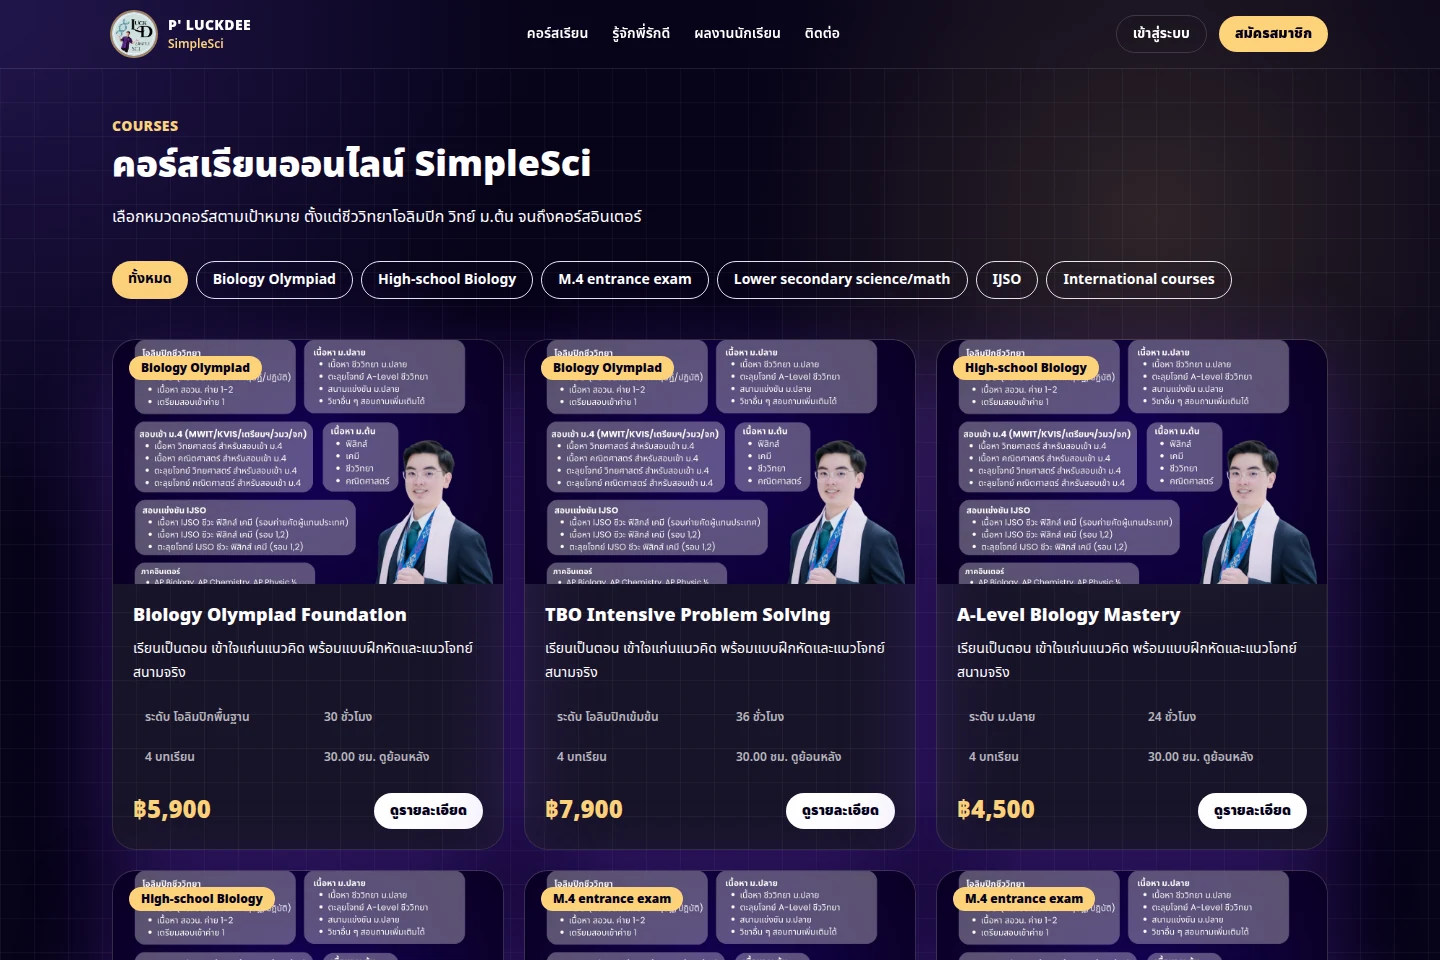
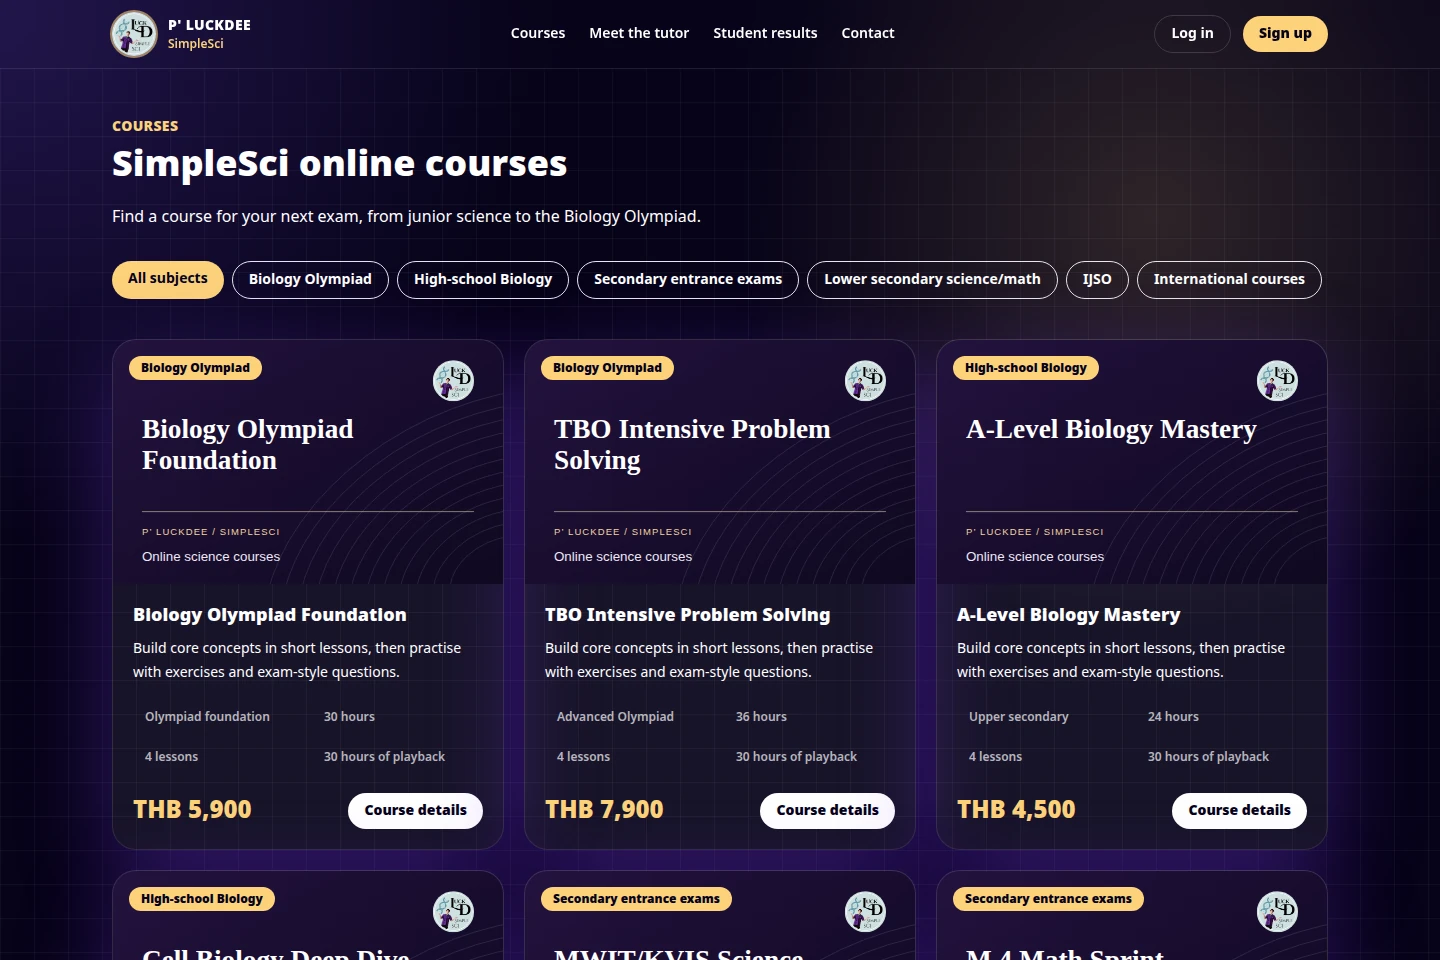
Show the paper cover and explain the projects in plain English

diff --git a/content/journeys.js b/content/journeys.js
@@ -1,66 +1,52 @@
 export const journeys = {
   "kvis-sc": {
-    role: "I led the IT team and built room and sports-field bookings, equipment lending, and the council feed.",
+    role: "I led the student IT team and replaced a shared booking spreadsheet with a live calendar.",
     frames: [
-      { image: "kvis-bookings.webp", label: "Reserve a room", alt: "Weekly room timetable with available reservation slots", caption: "Check a room and reserve a slot.", wide: true },
+      { image: "kvis-bookings.webp", label: "Reserve a room", alt: "Weekly room timetable with available reservation slots", caption: "See which rooms are free, then book a time.", wide: true },
     ],
-    flow: {
-      caption: "What changed in the booking system",
-      steps: [["Shared spreadsheet", "Conflicting bookings"], ["Live timetable", "Rooms and sports fields"], ["Student services", "Equipment, news, feedback"]],
-    },
   },
   "kampung-quest": {
-    role: "I carried accessibility preferences into the quest chat and improved the slower chat and activity requests.",
+    role: "I made the activity chat remember access needs, such as avoiding stairs, and sped up slow requests.",
     frames: [
-      { image: "kampung-accessibility.webp", label: "Set preferences", alt: "Accessibility preferences on the mobile onboarding screen", caption: "Set mobility and access preferences.", portrait: true },
-      { image: "kampung-assistant.webp", label: "Find an activity", alt: "Mobile conversation with the guided activity assistant", caption: "Find an activity with the assistant.", portrait: true },
-      { image: "kampung-coordination.webp", label: "Make a group plan", alt: "Group conversation and the activity card it produces", caption: "Turn the conversation into a group plan.", wide: true },
+      { image: "kampung-accessibility.webp", label: "Set preferences", alt: "Accessibility preferences on the mobile onboarding screen", caption: "Tell the assistant how far you can walk and whether stairs are a problem.", portrait: true },
+      { image: "kampung-assistant.webp", label: "Find an activity", alt: "Mobile conversation with the guided activity assistant", caption: "Find an activity that fits those needs.", portrait: true },
+      { image: "kampung-coordination.webp", label: "Make a group plan", alt: "Group conversation and the activity card it produces", caption: "Agree on a plan with the group.", wide: true },
     ],
   },
   tamestorage: {
-    role: "I set up the NAS on a repurposed Lenovo, integrated the file and note workflows, and added two-way calendar sync.",
+    role: "I set up the storage and backups, made my iPad notes searchable, and synced calendar changes across devices.",
     frames: [
       { image: "tamestorage-files.webp", label: "My Files", alt: "Tamestorage file manager displaying a sample Studio folder", caption: "My Files with a sample project folder.", wide: true },
-      { image: "storage-network.svg", label: "NAS topology", alt: "Network diagram for the primary NAS and backup disk", caption: "The home storage network.", wide: true },
+      { image: "storage-network.svg", label: "Storage and backups", alt: "Network diagram for the primary NAS and backup disk", caption: "One drive holds my files. A second drive stores a backup.", wide: true },
       { image: "nas-notebook.webp", label: "Network notebook", alt: "Thanakrit’s handwritten sketch connecting five home server services", caption: "The original network notebook sketch.", wide: true },
     ],
-    flow: {
-      caption: "From handwritten notes to searchable pages",
-      steps: [["Export", "Goodnotes over WebDAV"], ["Link the PDF", "NAS → Obsidian"], ["Extract text", "Native text or cached OCR"], ["Find the page", "Search with page references"]],
-    },
   },
   mgans: {
-    role: "Pasatorn Soikiri and I share first authorship. I worked on multi-generator anomaly detection for synthetic speech.",
+    role: "Pasatorn Soikiri and I share first authorship. I worked on the model that spots synthetic speech.",
     frames: [
+      { image: "mgans.svg", label: "Results", alt: "eD-AnoGAN scores of 0.9211 ROC AUC on WaveFake and 0.8428 on ASVspoof2019 LA", caption: "Closer to 1 is better. The score drops on a different set of recordings.", wide: true },
       { image: "mgans-paper-architecture.webp", label: "Model architectures", alt: "The paper’s published architectures for eD-AnoGAN and RES-MGANomaly", caption: "Model architectures from Figure 1. © 2025 IEEE.", wide: true },
-      { image: "mgans-paper-reconstructions.webp", label: "Reconstructions", alt: "Input and reconstructed speech spectrograms for four model variants", caption: "Spectrogram reconstructions from Figure 3. © 2025 IEEE.", wide: true },
+      { image: "mgans-paper-reconstructions.webp", label: "Original and rebuilt audio", alt: "Input and reconstructed speech spectrograms for four model variants", caption: "Original and rebuilt sound patterns from Figure 3. © 2025 IEEE.", wide: true },
       { image: "mgans-talk.webp", label: "Presenting the work", alt: "ICITEE presentation with the model architecture on screen", caption: "Presenting the architecture at ICITEE 2025." },
       { image: "mgans-venue.webp", label: "ICITEE 2025", alt: "Thanakrit beside the ICITEE conference backdrop", caption: "ICITEE 2025." },
     ],
   },
   sleeppilot: {
-    role: "I built the FAQ assistant, added conversation history, and refined the embedding model and retrieval scoring.",
+    role: "I built the search that finds the right help article and added follow-up questions that carry on the conversation.",
     frames: [
-      { image: "sleeppilot-dialog.webp", label: "An answer with sources", alt: "SleepPilot Coach answering a question about wearables and showing its FAQ sources", caption: "A wearable-device question, answered from the indexed FAQ.", portrait: true, wide: true },
+      { image: "sleeppilot-dialog.webp", label: "An answer with sources", alt: "SleepPilot Coach answering a question about wearables and showing its FAQ sources", caption: "Asked if a watch is required, the assistant answers and shows the help article it used.", portrait: true, wide: true },
     ],
-    flow: {
-      caption: "How SleepPilot answers a question",
-      steps: [["Ask", "Include recent context"], ["Embed", "Local sentence model"], ["Retrieve", "Rank 15 FAQs with cosine similarity"], ["Reply", "Answer from matching FAQs"]],
-    },
   },
   luckdee: {
-    role: "I developed the Django storefront and worked on lesson video delivery and course imagery.",
+    role: "I built the storefront and worked on how lesson videos and course images are shown.",
     frames: [
-      { image: "simplesci-catalog.webp", label: "Course catalog", alt: "SimpleSci catalog with filters and three example course cards", caption: "Filter courses by subject and level.", wide: true },
-      { image: "simplesci-course.webp", label: "Course details", alt: "SimpleSci’s example Biology Olympiad course with lesson topics and enrollment details", caption: "A demo course with lesson topics and enrollment details.", wide: true },
+      { image: "simplesci-catalog.webp", label: "Courses", alt: "English SimpleSci course catalog with subject and level filters", caption: "Browse by subject or level.", wide: true },
+      { image: "simplesci-course.webp", label: "Course page", alt: "English SimpleSci course page with topics and enrollment details", caption: "See what the course covers before enrolling.", wide: true },
+      { image: "simplesci-checkout.webp", label: "Checkout", alt: "English SimpleSci checkout where students can upload a demo bank transfer receipt", caption: "Upload a bank transfer receipt for the tutor to review.", wide: true },
     ],
-    flow: {
-      caption: "From browsing to the first lesson",
-      steps: [["Browse", "Choose a course"], ["Pay", "Submit a transfer slip"], ["Approve", "Tutor reviews payment"], ["Study", "Private videos and documents"]],
-    },
   },
   sentctf: {
-    role: "I competed as part of Team RIPGREP in the NTU Cybersecurity Club competition.",
+    role: "I competed with Team RIPGREP.",
     frames: [
       { image: "sentctf-certificate.webp", label: "Third-place certificate", alt: "Thanakrit Damduan’s SentCTF 2026 third-place certificate", caption: "My third-place certificate.", wide: true },
     ],

diff --git a/content/projects.js b/content/projects.js
@@ -8,7 +8,7 @@ export const projects=[
     label: "Council website",
     alt: "KVIS Student Committee homepage with a group portrait and student services",
     caption: "The student committee homepage.",
-    summary: "One front door for student life at Kamnoetvidya Science Academy.",
+    summary: "A school site for reserving rooms, borrowing equipment and checking announcements.",
   },
 {
     slug: "kampung-quest",
@@ -18,29 +18,29 @@ export const projects=[
     label: "Activity dashboard",
     alt: "Activity dashboard from the Kampung Quest demo",
     caption: "The activity dashboard from the Senior Quest prototype.",
-    summary: "Helping older neighbours turn shared interests into plans.",
+    summary: "Helps older neighbours choose an activity they can do together and agree on a time and place.",
     url: git+"Kampung-quest"
   },
 {
     slug: "tamestorage",
     name: "Tamestorage",
-    tag: "Infrastructure",
+    tag: "Home server",
     image: "tamestorage-overview.webp",
     label: "Site overview",
     alt: "Tamestorage landing page with links to files, notes and plans",
-    caption: "The running Tamestorage overview.",
-    summary: "A second life for a Lenovo laptop, as my personal NAS.",
+    caption: "The page I use to reach my files, notes and plans.",
+    summary: "An old Lenovo laptop turned into a home server for files, notes and backups.",
     url: git+"Storage"
   },
 {
     slug: "mgans",
     name: "mGANs",
     tag: "Speech research",
-    image: "mgans.svg",
-    label: "Results",
-    alt: "eD-AnoGAN scores of 0.9211 ROC AUC on WaveFake and 0.8428 on ASVspoof2019 LA",
-    caption: "Reported ROC AUC for eD-AnoGAN across two speech datasets.",
-    summary: "Synthetic Speech Detection via Multi-Generator GANs with Anomaly Detection Architectures",
+    image: "mgans-paper-first-page.webp",
+    label: "The paper",
+    alt: "First page of Synthetic Speech Detection via Multi-Generator GANs with Anomaly Detection Architectures",
+    caption: "The first page of the published ICITEE paper. © 2025 IEEE.",
+    summary: "A study of how well a detector spots AI-generated speech on recordings from a different dataset.",
     citation: "T. Damduan, P. Soikiri, V. Kanjaras, R. Varathikul and K. Sumetpipat. ICITEE 2025, pp. 601–606. DOI 10.1109/ICITEE66631.2025.11338480.",
     url: "https://doi.org/10.1109/ICITEE66631.2025.11338480",
     link: "Read on IEEE Xplore"
@@ -48,12 +48,12 @@ export const projects=[
 {
     slug: "sleeppilot",
     name: "SleepPilot Coach",
-    tag: "Applied ML",
+    tag: "Q&A assistant",
     image: "sleeppilot-ui.webp",
     label: "Assistant",
     alt: "SleepPilot landing page with its FAQ assistant open",
-    caption: "The FAQ assistant inside the SleepPilot landing page.",
-    summary: "A retrieval-augmented assistant with a deliberately small knowledge base.",
+    caption: "Ask a question about the sleep app from its home page.",
+    summary: "A help chatbot that answers questions about a sleep app and shows where each answer came from.",
     url: git+"EndToEndRAG"
   },
 {
@@ -62,9 +62,9 @@ export const projects=[
     tag: "Education",
     image: "simplesci-storefront.webp",
     label: "Storefront",
-    alt: "P’ Luckdee SimpleSci’s Thai-language tutoring storefront",
-    caption: "The SimpleSci storefront, running with demo courses.",
-    summary: "A Thai tutoring storefront that follows students from checkout to class.",
+    alt: "English preview of the P’ Luckdee SimpleSci storefront",
+    caption: "The tutoring storefront in an English demo.",
+    summary: "Students choose a science course, upload a bank transfer receipt and get access to lessons once the tutor confirms payment.",
     url: git+"simplesci"
   },
   {
@@ -75,7 +75,7 @@ export const projects=[
     label: "Awards stage",
     alt: "Team RIPGREP on stage under the SentCTF 2026 event screen",
     caption: "The SentCTF awards at NTU.",
-    summary: "Third prize with Team RIPGREP.",
+    summary: "Third place at NTU’s cybersecurity competition with Team RIPGREP.",
   },
 ];
 export const bySlug = (slug) => projects.find((project) => project.slug === slug);

diff --git a/app/work/[slug]/model-figure.jsx b/app/work/[slug]/model-figure.jsx
@@ -1,7 +1,7 @@
 export default function ModelFigure() {
   return (
     <figure className="model-figure">
-      <figcaption>eD-AnoGAN inference</figcaption>
+      <figcaption>How the detector checks a recording</figcaption>
       <ol className="model-route">
         <li>
           <svg viewBox="0 0 150 68" aria-hidden="true">
@@ -9,8 +9,8 @@ export default function ModelFigure() {
             <path d="M2 60C24 61 18 35 37 40S54 67 71 32S100 15 109 34S128 49 147 12" fill="none" stroke="#b73713" strokeWidth="2" />
             <path d="M2 62C25 62 21 49 39 51S60 57 71 47S95 30 108 50S130 60 147 37" fill="none" stroke="#b73713" opacity=".42" />
           </svg>
-          <strong>Log-mel tile</strong>
-          <span>Speech input</span>
+          <strong>Picture the sound</strong>
+          <span>Show low and high sounds over time.</span>
         </li>
         <li>
           <svg viewBox="0 0 214 68" aria-hidden="true">
@@ -20,15 +20,16 @@ export default function ModelFigure() {
             <circle cx="112" cy="34" r="3" fill="#b73713" />
             <circle cx="160" cy="34" r="3" fill="#b73713" />
           </svg>
-          <strong>Reconstruct</strong>
-          <span>The classifier selects one of seven branches.</span>
+          <strong>Rebuild the pattern</strong>
+          <span>One of seven model branches tries to match it.</span>
         </li>
         <li>
           <svg viewBox="0 0 150 68" aria-hidden="true">
-            <text x="0" y="45" fill="#b73713" fontFamily="monospace" fontSize="29">ΔX + KL</text>
+            <path d="M2 51C23 52 32 18 51 20S77 50 98 40S123 18 147 27" fill="none" stroke="#a9ada2" strokeWidth="2" />
+            <path d="M2 51C23 52 32 18 51 20S77 49 98 47S123 45 147 40" fill="none" stroke="#b73713" strokeWidth="2" />
           </svg>
-          <strong>Anomaly score</strong>
-          <span>Reconstruction error and classifier divergence.</span>
+          <strong>Compare the two</strong>
+          <span>A larger mismatch makes the recording look more unusual.</span>
         </li>
       </ol>
     </figure>

diff --git a/app/detail.css b/app/detail.css
@@ -20,7 +20,7 @@
   background: #eceee5;
   padding: clamp(.75rem, 2vw, 1.75rem);
 }
-.journey-frame.wide, .process { grid-column: 1 / -1; }
+.journey-frame.wide { grid-column: 1 / -1; }
 .journey-frame a {
   display: grid;
   justify-items: center;
@@ -38,47 +38,6 @@
 .journey.luckdee .journey-frame { background: #f0e5c8; }
 .plate, .journey-frame { scroll-margin: 1.5rem; }
 .plate a { display: block; }
-.process {
-  padding: clamp(1.2rem, 3vw, 2rem) 0;
-  border-block: 1px solid var(--rule);
-}
-.process figcaption {
-  margin: 0 0 1.25rem;
-  color: var(--mute);
-}
-.process ol {
-  display: grid;
-  grid-auto-flow: column;
-  grid-auto-columns: minmax(0, 1fr);
-  gap: clamp(.8rem, 2.6vw, 2rem);
-  margin: 0;
-  padding: 0;
-  list-style: none;
-}
-.process li {
-  position: relative;
-  display: flex;
-  flex-direction: column;
-  gap: .4rem;
-  padding-top: .85rem;
-  border-top: 1px solid var(--rule);
-}
-.process li::before {
-  content: "";
-  position: absolute;
-  inset: -3px auto auto 0;
-  width: 5px;
-  height: 5px;
-  border-radius: 50%;
-  background: var(--accent);
-}
-.process strong {
-  font: 650 clamp(1.16rem, 2vw, 1.65rem)/1.14 var(--display);
-}
-.process li small {
-  font-family: inherit;
-  color: var(--mute);
-}
 .publication {
   border-bottom: 1px solid var(--rule);
   padding: .8rem 0;
@@ -110,8 +69,6 @@
   .journey-frame.portrait-frame { padding: .55rem; }
   .journey-frame.portrait-frame a { min-height: min(57vh, 23rem); }
   .portrait-frame img { max-height: min(57vh, 23rem); }
-  .process ol { grid-auto-flow: row; grid-template-columns: repeat(2, minmax(0, 1fr)); gap: .7rem; }
-  .process li { padding-top: .7rem; padding-bottom: .65rem; }
   .catalog:not(.list) .cover.sentctf { aspect-ratio: 1.5; }
 }
 @media print {

diff --git a/app/cv/page.jsx b/app/cv/page.jsx
@@ -25,10 +25,10 @@ export default function CV() {
       </section>
       <section aria-labelledby="work-cv">
         <h2 id="work-cv">Selected work</h2>
-        <p><a href={sitePath("/work/kampung-quest/")}>Kampung Quest</a> · Accessibility preferences in quest chat, request performance, and production testing.</p>
-        <p><a href={sitePath("/work/sleeppilot/")}>SleepPilot Coach</a> · FAQ retrieval, conversation history, embeddings, and scoring.</p>
-        <p><a href={sitePath("/work/luckdee/")}>P’ Luckdee SimpleSci</a> · Django storefront, lesson video delivery, and course imagery.</p>
-        <p><a href={sitePath("/work/tamestorage/")}>Tamestorage</a> · Home NAS, linked note workflows, and two-way CalDAV sync.</p>
+        <p><a href={sitePath("/work/kampung-quest/")}>Kampung Quest</a> · Made the activity chat remember access needs, improved its speed, and tested the live site.</p>
+        <p><a href={sitePath("/work/sleeppilot/")}>SleepPilot Coach</a> · Built a chatbot that searches help articles, cites them and remembers follow-up questions.</p>
+        <p><a href={sitePath("/work/luckdee/")}>P’ Luckdee SimpleSci</a> · Built the tutoring storefront and improved how lessons and course images are shown.</p>
+        <p><a href={sitePath("/work/tamestorage/")}>Tamestorage</a> · Set up home storage and backups, searchable iPad notes and calendars that sync across devices.</p>
         <p><strong>KVIS Open House</strong> · Led the registration scanner team. Designed the YOLOv8/Flask pipeline and added paper dewarping.</p>
       </section>
       <section aria-labelledby="research">

diff --git a/app/work/[slug]/page.jsx b/app/work/[slug]/page.jsx
@@ -44,22 +44,6 @@ function Frame({ frame, className = "", lead = false }) {
   );
 }
 
-function Process({ flow }) {
-  return (
-    <figure className="process">
-      <figcaption>{flow.caption}</figcaption>
-      <ol>
-        {flow.steps.map(([step, detail]) => (
-          <li key={step}>
-            <strong>{step}</strong>
-            <small>{detail}</small>
-          </li>
-        ))}
-      </ol>
-    </figure>
-  );
-}
-
 export default async function Project({ params }) {
   const project = bySlug((await params).slug);
   const journey = journeys[project.slug];
@@ -97,7 +81,6 @@ export default async function Project({ params }) {
             className={`journey-frame${frame.wide ? " wide" : ""}${frame.portrait ? " portrait-frame" : ""}`}
           />
         ))}
-        {journey.flow && <Process flow={journey.flow} />}
       </section>
       <a className="nextwork" href={sitePath(`/work/${next.slug}/`)}>
         <small>Next project</small>{next.name}

diff --git a/app/global.css b/app/global.css
@@ -239,15 +239,16 @@ h1 {
 .cover.kampung-quest {
   background:#d4deef;
 }
-.cover.tamestorage,.cover.mgans {
+.cover.tamestorage {
   padding:0;
 }
-.cover.tamestorage img,.cover.mgans img {
+.cover.tamestorage img {
   object-fit:contain;
   box-shadow:none;
 }
 .cover.mgans {
-  background:#1a3338;
+  background: #d9e2dc;
+  padding: 7% 11% 0;
 }
 .cover.tamestorage {
   background:#e8ebdf;
